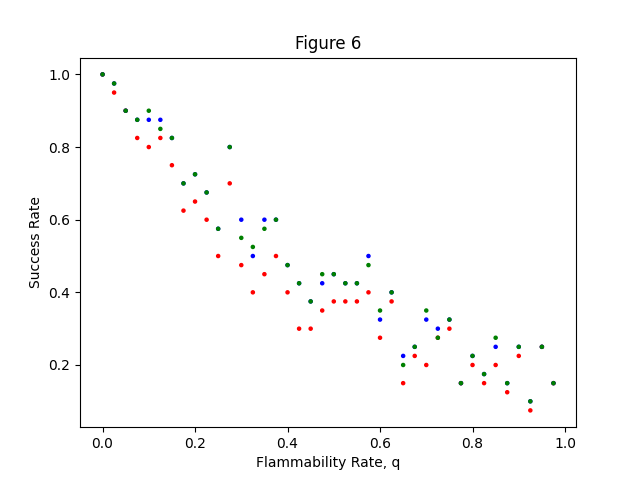
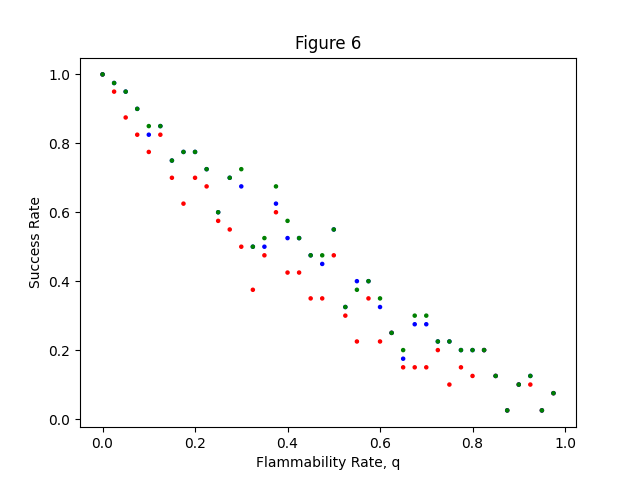
fixed check_heap and the way we block off dangerous cells to block more

diff --git a/util.py b/util.py
@@ -202,18 +202,15 @@ def bfs(maze, s, g, distances=False):
     visited.add(s)
     num_visited = 0
     map = {}
-    distance = 1
+    distance = 0
 
+    num_in_layer = 1
     # While cells are in fringe
-    num_in_layer = len(fringe)
     while fringe:
         # Remove in FIFO fashion
         v = fringe.popleft()
         num_in_layer -= 1
         map[v] = distance
-        if num_in_layer == 0:
-            num_in_layer = len(fringe)
-            distance += 1
         num_visited += 1
         # If we found goal cell, break out of loop
         if not distances and v == g:
@@ -223,8 +220,12 @@ def bfs(maze, s, g, distances=False):
             if (x, y) not in visited and valid_cell(x, y, maze):
                 visited.add((x, y))
                 fringe.append((x, y))
+        if num_in_layer == 0:
+            num_in_layer = len(fringe)
+            distance += 1
 
     if distances:
+        map.pop(s, None)  # we don't care about start
         return map
     # Return total number of cells BFS visited
     return num_visited
@@ -375,14 +376,14 @@ def scorch(maze, s, g, h_map, fires, q):
     block_heap = []
     if check_heap:
         num_trials = 100
-        temp = deepcopy(maze)
-        temp_fires = deepcopy(fires)
         ignition_counts = {}
         for item in check_heap:
             cell = item[1]
             ignition_counts[cell] = 0.0
         saved_heap = check_heap.copy()
         for trial in range(num_trials):
+            temp = deepcopy(maze)
+            temp_fires = fires.copy()
             fire_step = 0
             check_heap = saved_heap.copy()
             while check_heap:
@@ -390,21 +391,20 @@ def scorch(maze, s, g, h_map, fires, q):
                 fire_step += 1
                 while check_heap and check_heap[0][0] == fire_step:
                     popped = heapq.heappop(check_heap)
-                    (x, y) = popped[1]
+                    x, y = popped[1]
                     if temp[x][y] == 2:
                         ignition_counts[(x, y)] += 1.0
         for (x, y) in ignition_counts.keys():
             count = ignition_counts.get((x, y))
             prob = count / num_trials
-            heapq.heappush(block_heap, (-1 * prob, (x, y)))
+            heapq.heappush(block_heap, (-1 * prob, (x, y)))  # -1 because we want max heap functionality
 
-    # in temp maze, block off most dangerous cells until we can't anymore
+    # in temp maze, block as many dangerous cells as we can and then run a*
     temp = deepcopy(maze)
-    (x, y) = (0, 0)
-    while block_heap and dfs(temp, s, g):
+    while block_heap:
         popped = heapq.heappop(block_heap)
-        (x, y) = popped[1]
+        x, y = popped[1]
         temp[x][y] = 1
-    if not dfs(temp, s, g):
-        temp[x][y] = 0
+        if not dfs(temp, s, g):
+            temp[x][y] = 0
     return a_star(temp, s, g, h_map, path=True)
